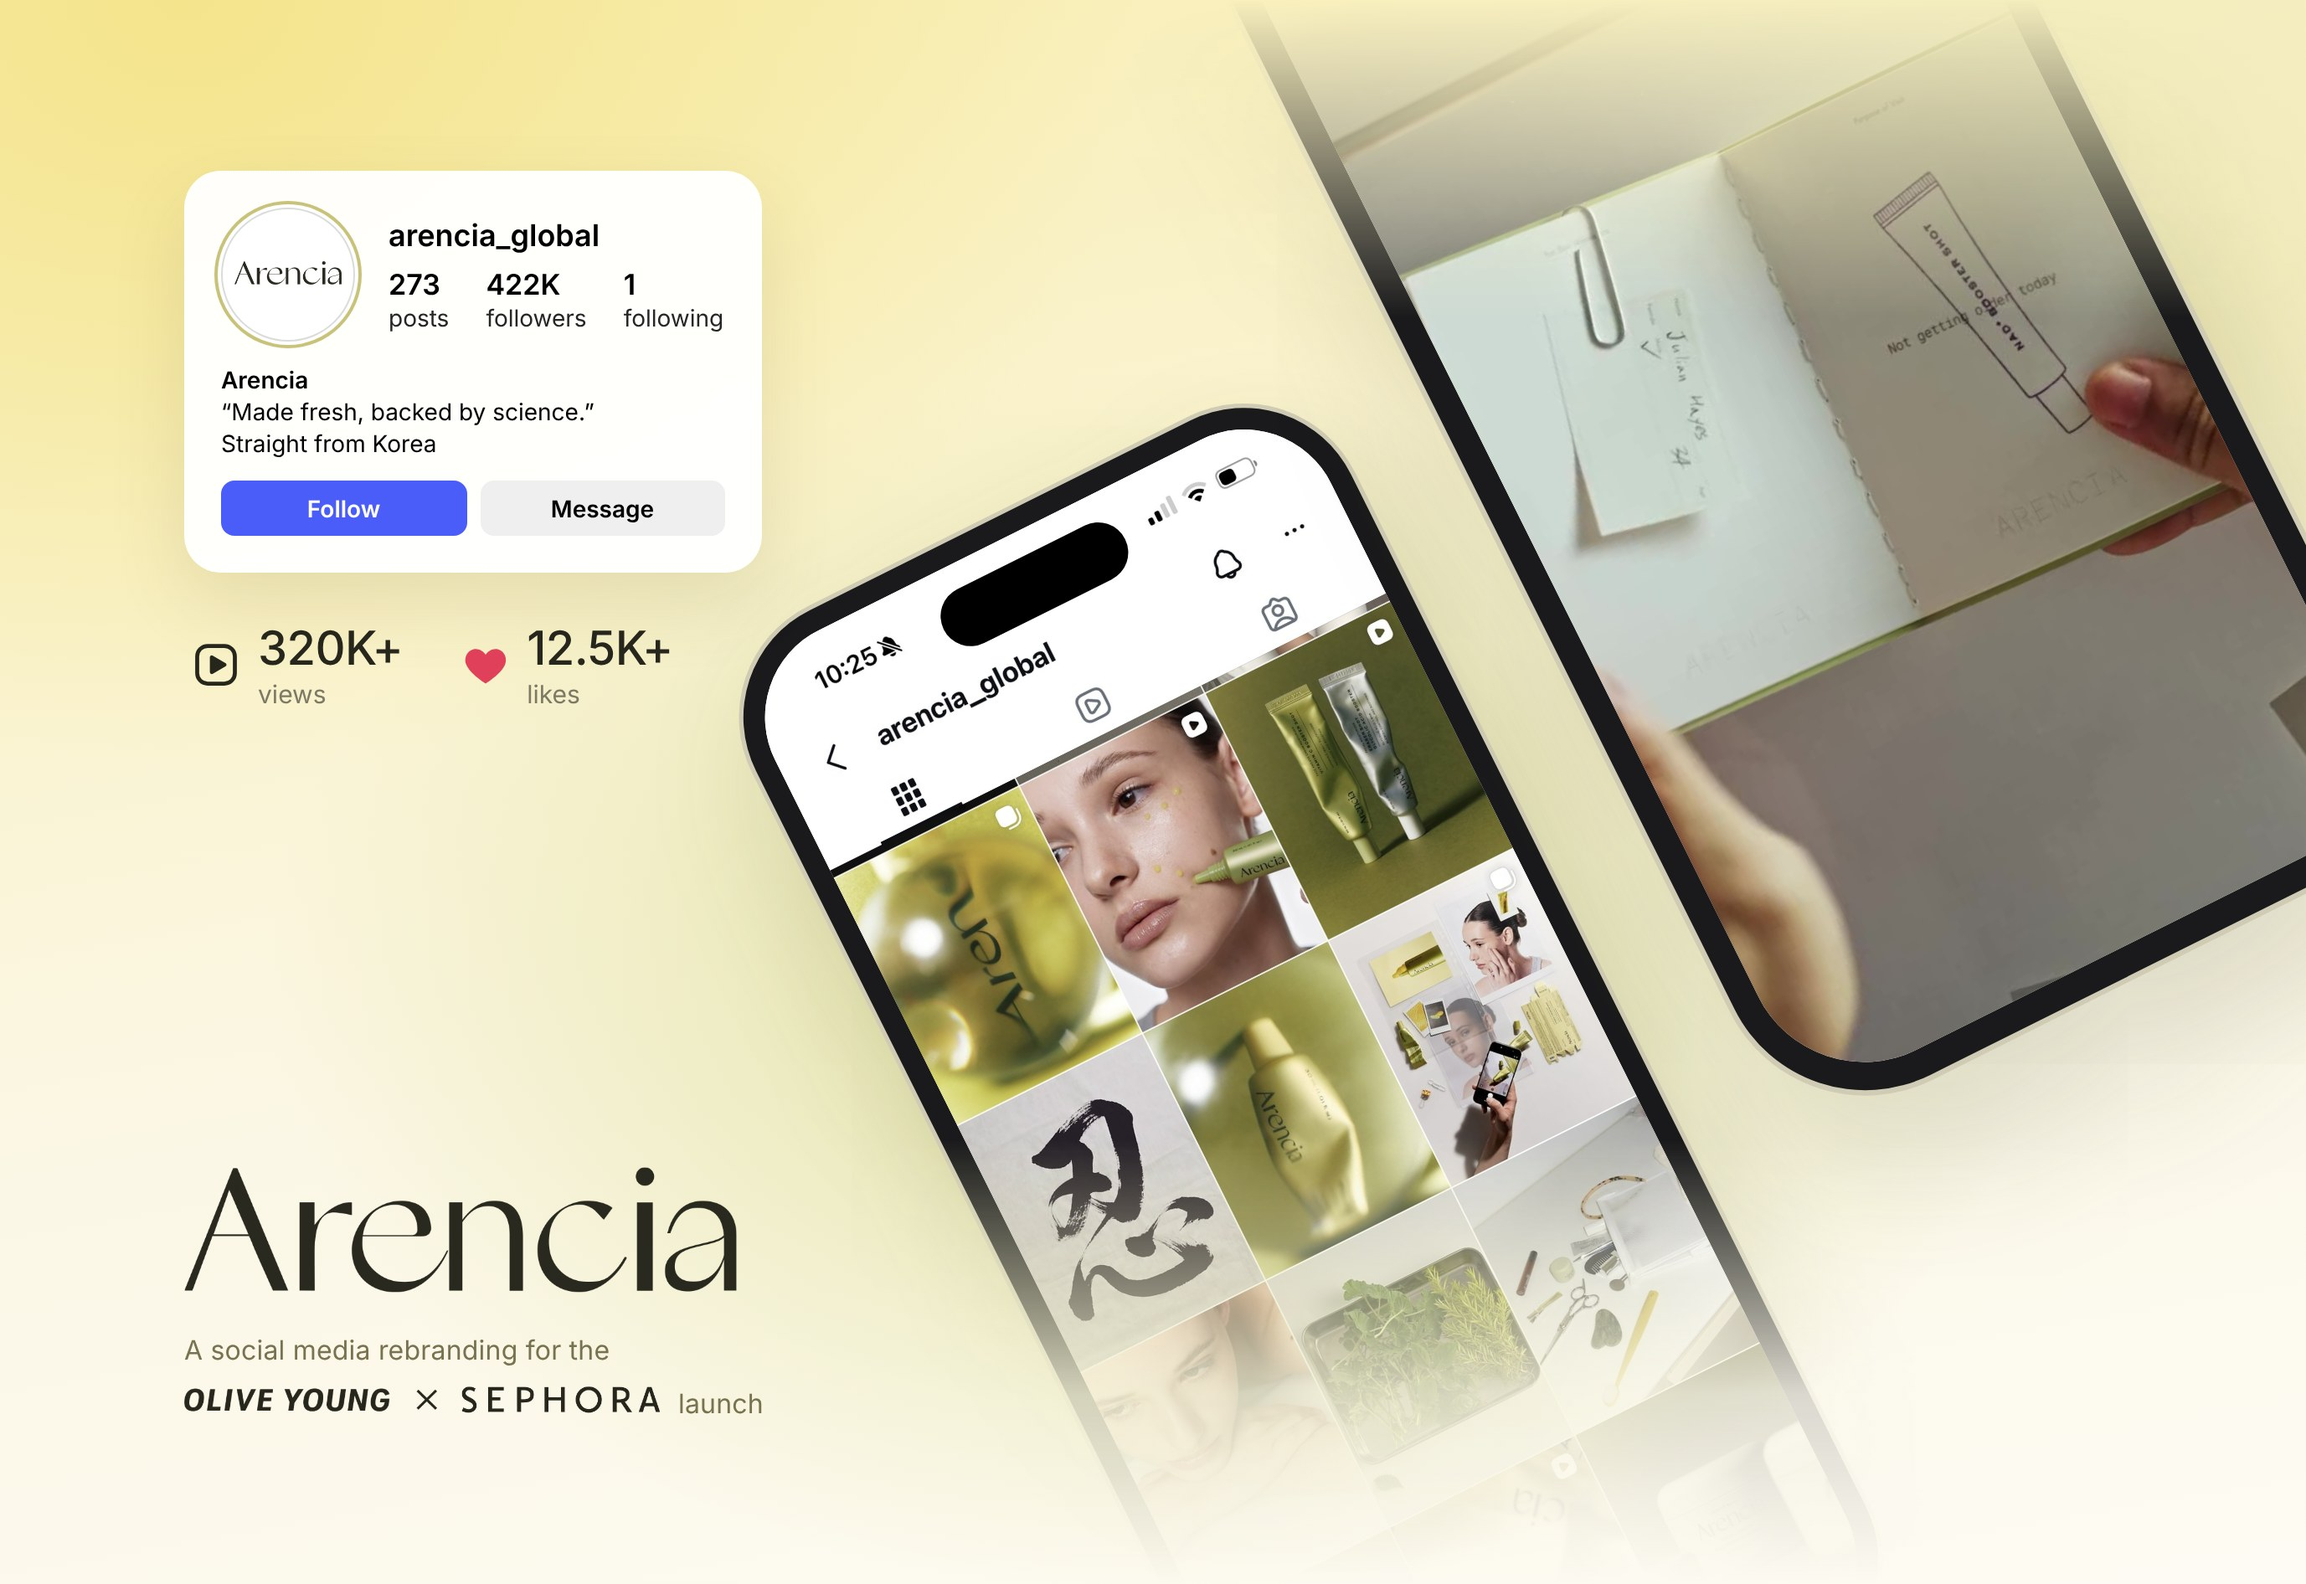
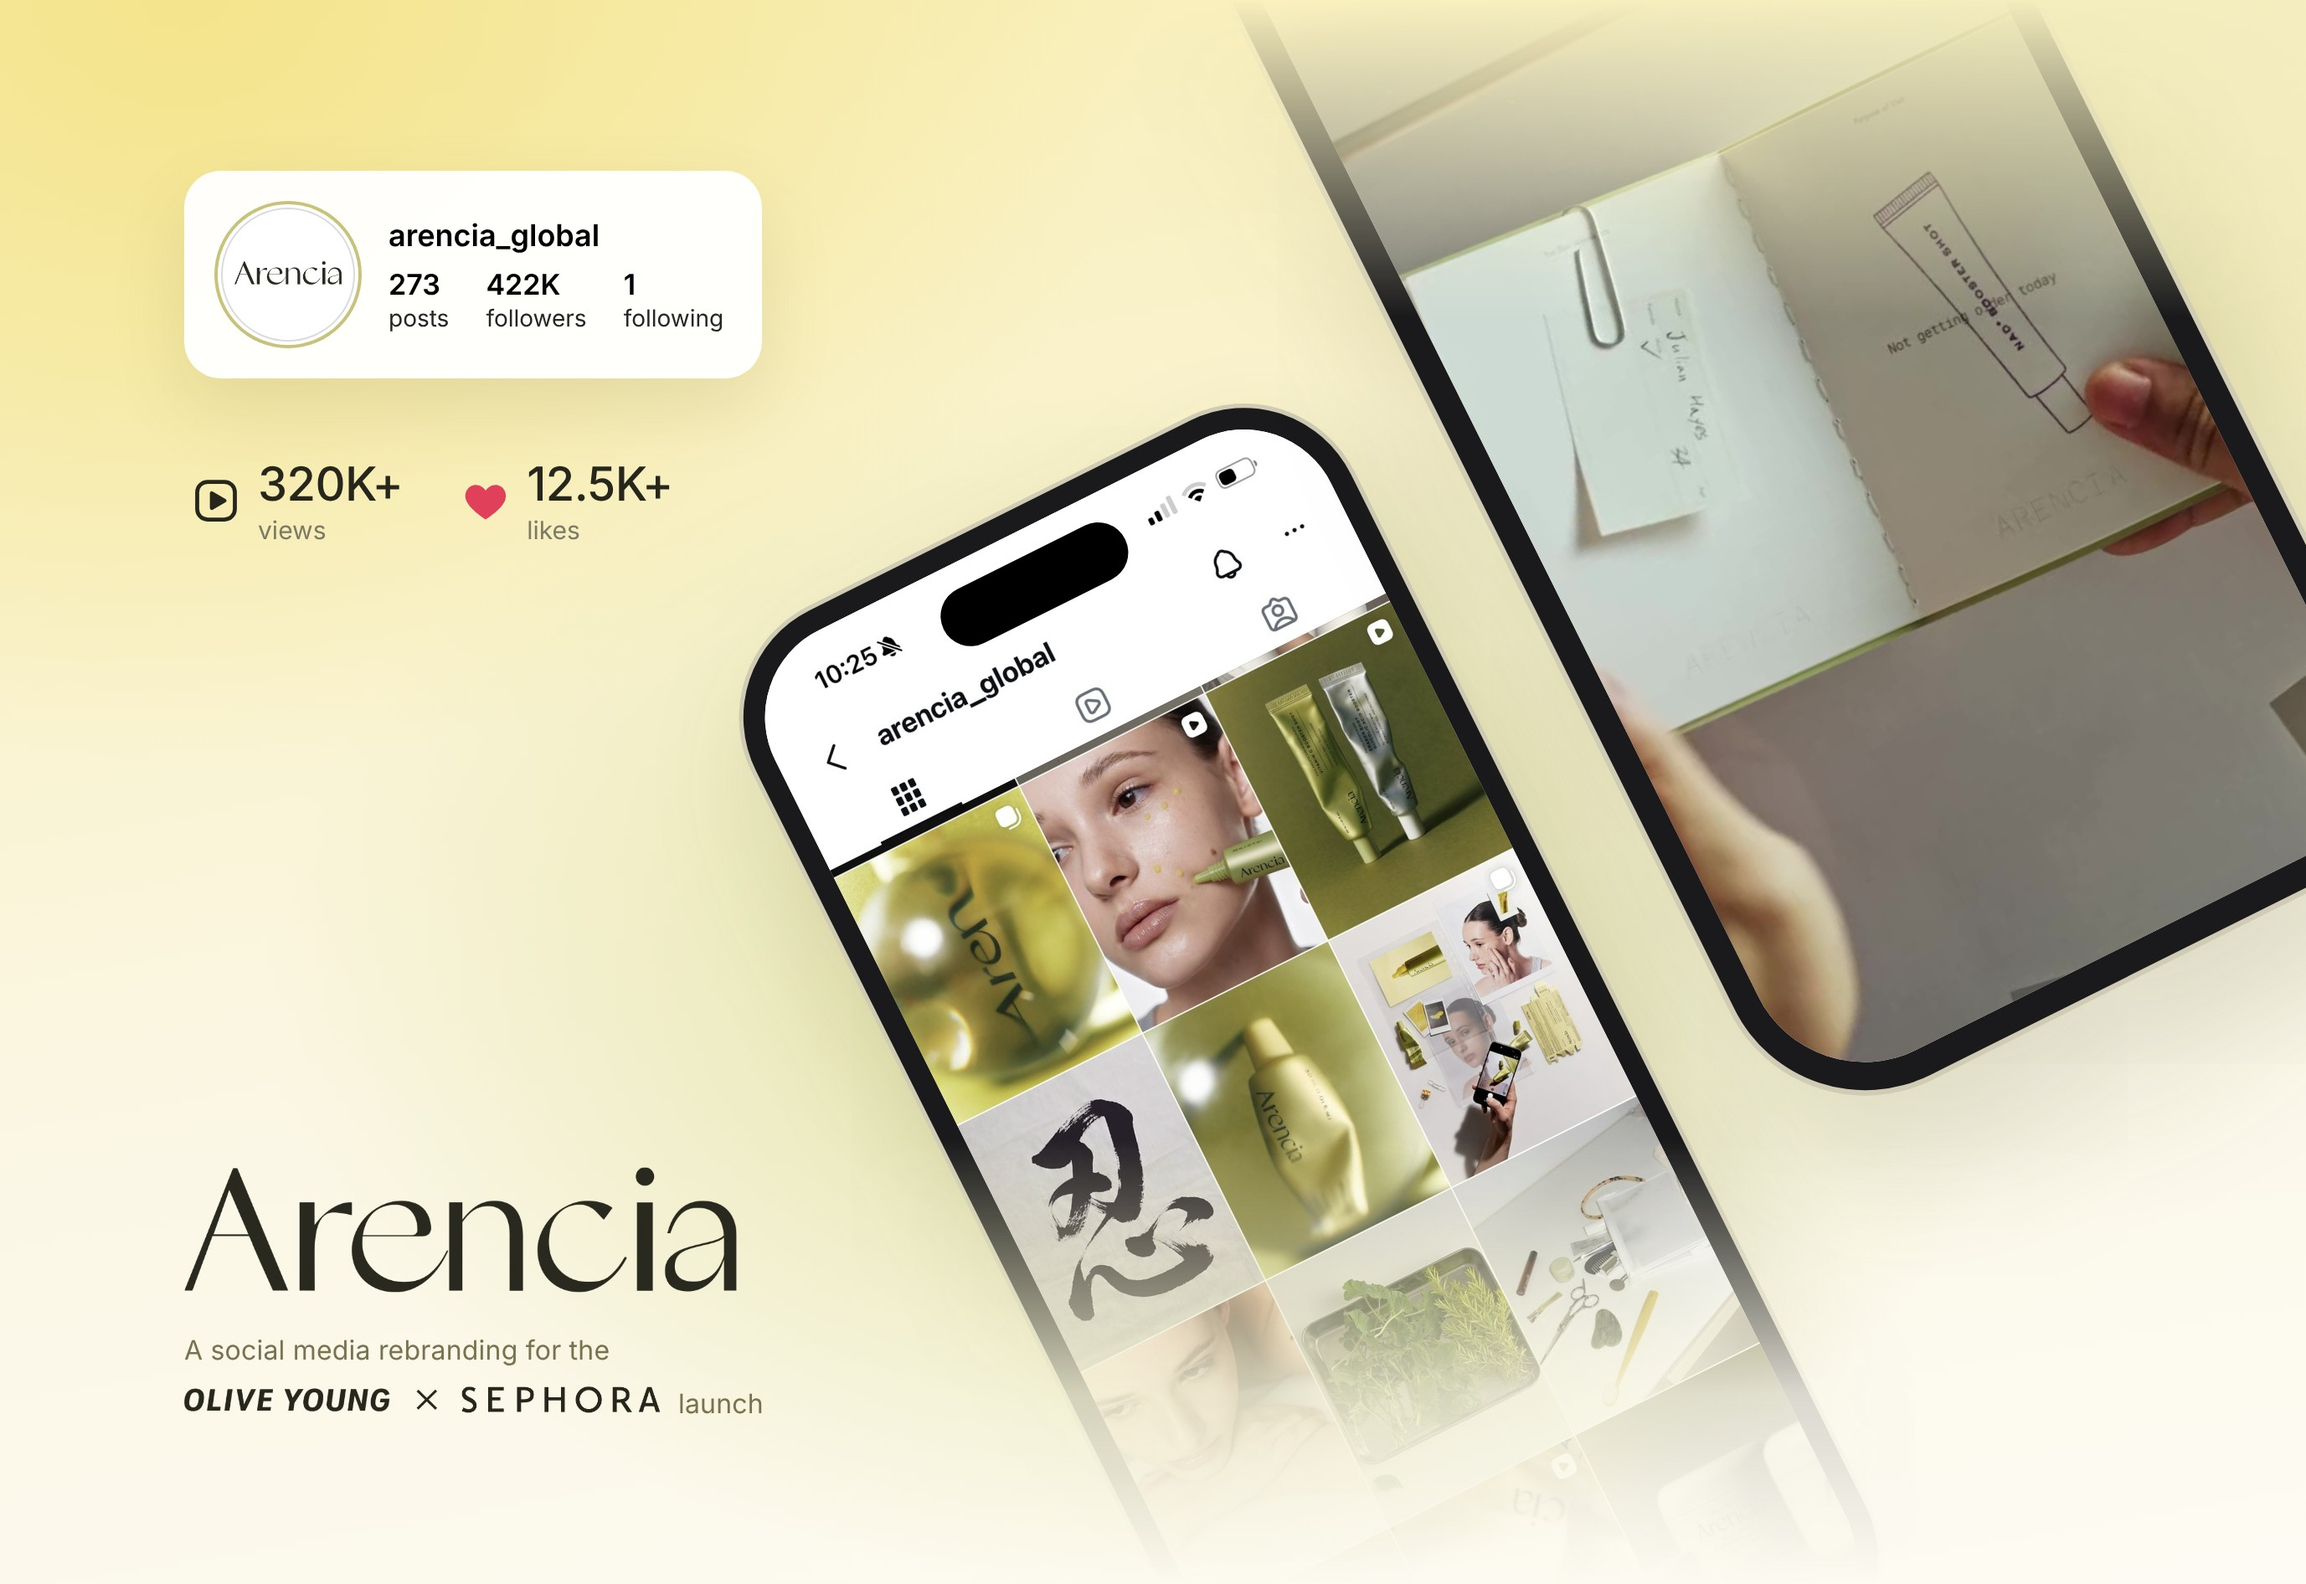
Home: bring back the Bark model picker and trim the Arencia profile card (#20)
* Home: bring back the Bark model picker card

Reverts #19 at the person's request: the model picker is the more relevant
card next to chat search.

Claude-Session: https://claude.ai/code/session_01PJkMotC6Nz8qWguHKxjy1y

* Home: trim the Arencia profile card above the bio

The Instagram card now ends at the username and stats; the views and likes move up under it.

Claude-Session: https://claude.ai/code/session_01PJkMotC6Nz8qWguHKxjy1y

---------

Changed region(s): [[0.0625, 0.2183, 0.3435, 0.4366], [0.1874, 0.4054, 0.281, 0.4366]]

diff --git a/index.html b/index.html
@@ -50,8 +50,8 @@
 
       <a class="project" href="cmugpt-site/index.html">
         <div class="project__media project__media--cmugpt">
-          <img src="cmugpt-site/images/cover.png?v=8" width="1377" height="946"
-            alt="Bark cover: 'Ask anything about Carnegie Mellon.' above an iMac showing a Bark answer with an interactive CMU Maps route, with cards for live info from ScottyLabs (CMUEats, CMU Courses), memory saved, and chat search showing a starred chat and recent chats">
+          <img src="cmugpt-site/images/cover.png?v=9" width="1377" height="946"
+            alt="Bark cover: 'Ask anything about Carnegie Mellon.' above an iMac showing a Bark answer with an interactive CMU Maps route, with a model picker card (GPT-5.6 Luna selected) and a chat search card showing a starred chat and recent chats">
           <video class="project__hover" data-src="cmugpt-site/images/hover.mp4?v=2" muted playsinline loop preload="none" aria-hidden="true"></video>
         </div>
         <h2 class="project__title">Bark</h2>
@@ -60,7 +60,7 @@
 
       <a class="project" href="arencia-site/index.html">
         <div class="project__media project__media--arencia">
-          <img src="arencia-site/images/cover.jpg?v=10" width="1377" height="946"
+          <img src="arencia-site/images/cover.jpg?v=11" width="1377" height="946"
             alt="Arencia cover: the @arencia_global Instagram profile (273 posts, 422K followers) with 320K+ views and 12.5K+ likes, two tilted phones showing the rebranded Instagram grid and the Booster Shot video, and the Arencia logo with 'A social media rebranding for the Olive Young x Sephora launch'">
           <video class="project__hover" data-src="arencia-site/images/hover.mp4?v=1" muted playsinline loop preload="none" aria-hidden="true"></video>
         </div>
